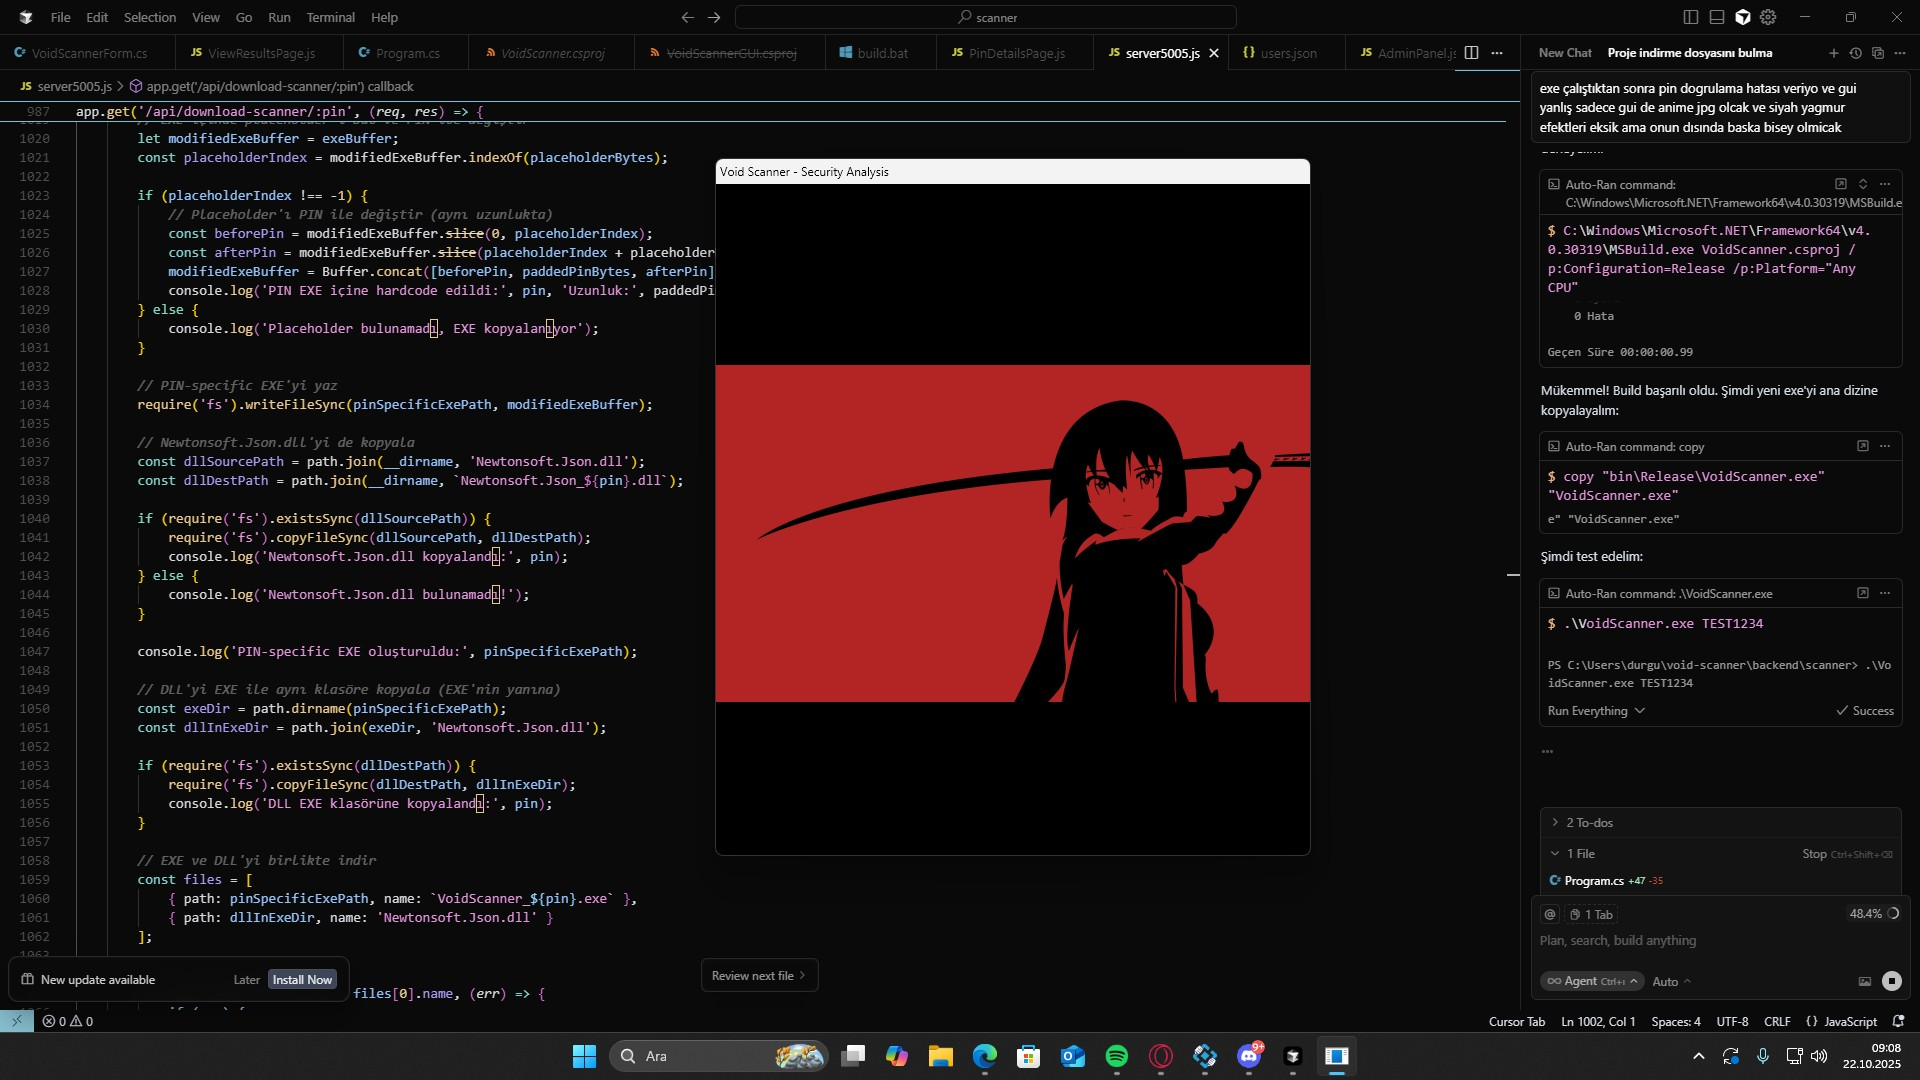
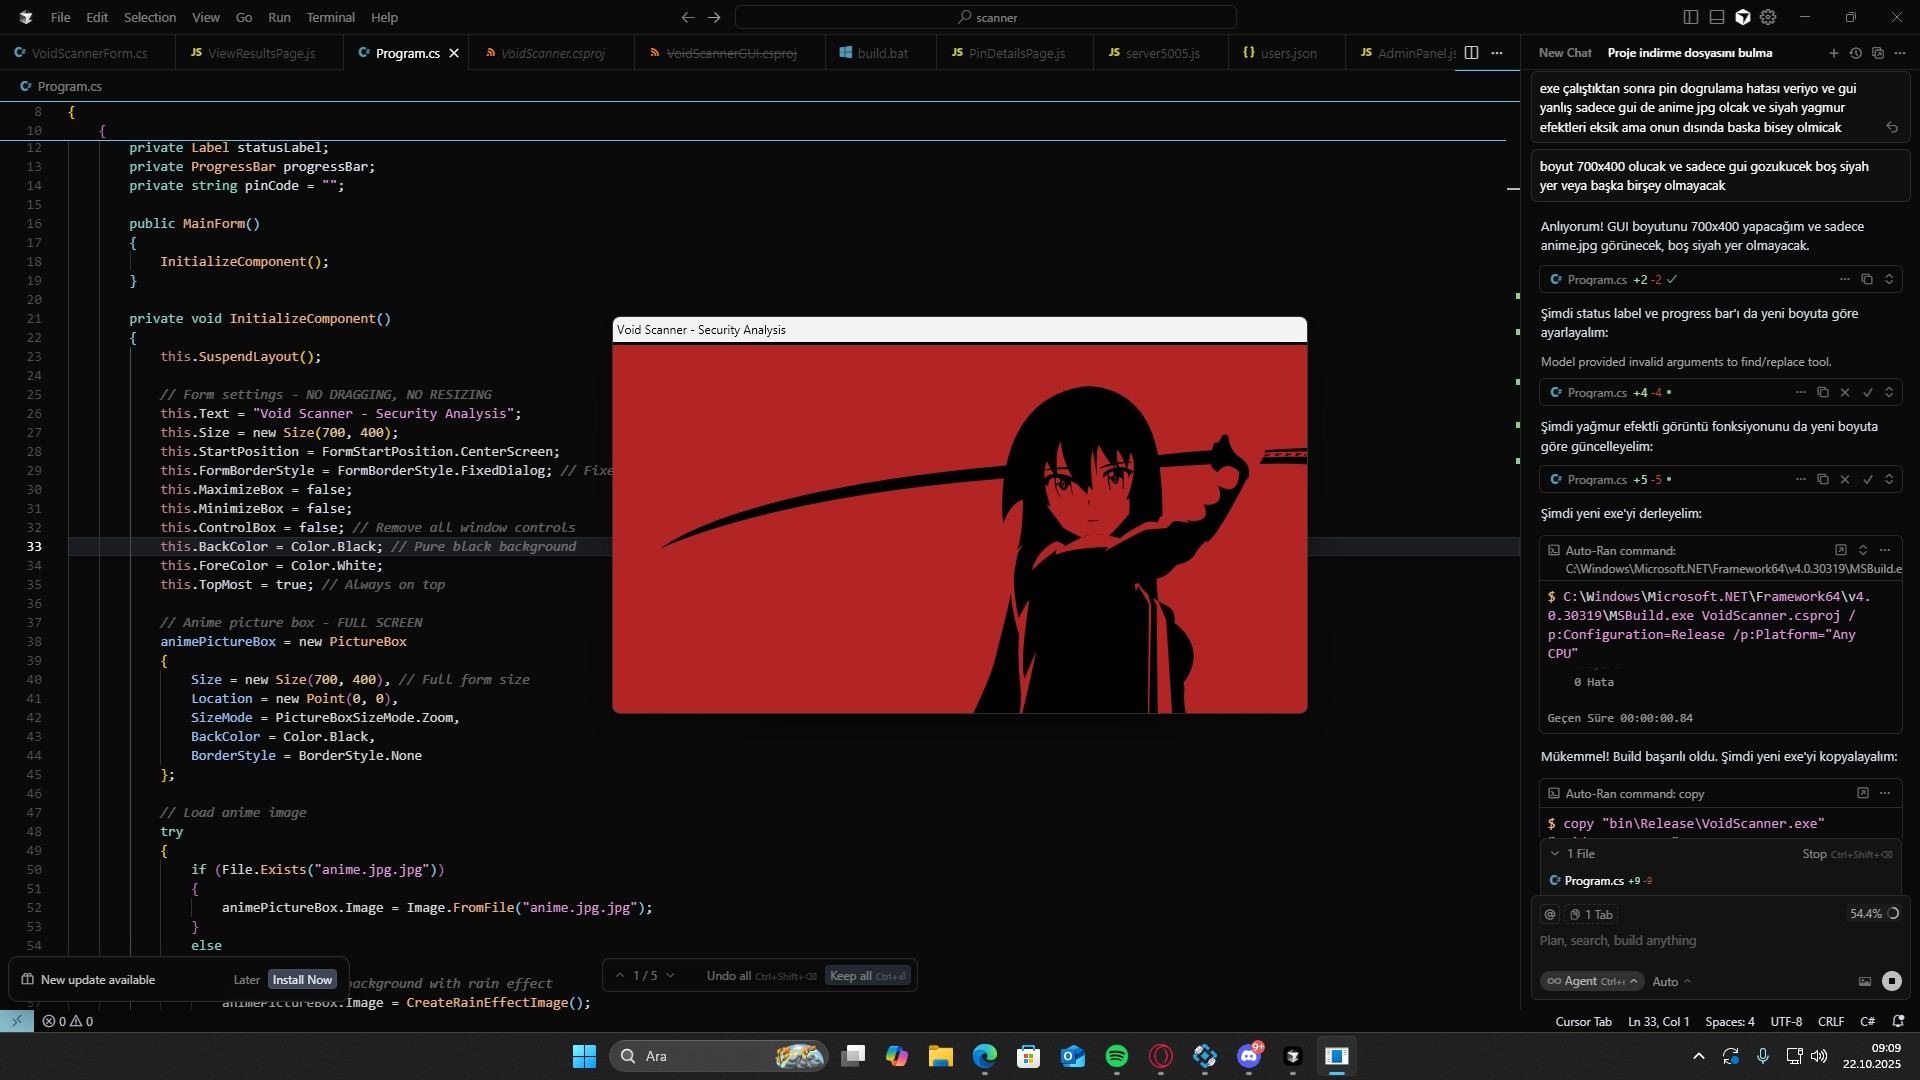
GUI boyutu 700x400 olarak ayarlandı - sadece anime.jpg görünecek

diff --git a/backend/scanner/Program.cs b/backend/scanner/Program.cs
@@ -24,7 +24,7 @@ namespace VoidScanner
             
             // Form settings - NO DRAGGING, NO RESIZING
             this.Text = "Void Scanner - Security Analysis";
-            this.Size = new Size(600, 700);
+            this.Size = new Size(700, 400);
             this.StartPosition = FormStartPosition.CenterScreen;
             this.FormBorderStyle = FormBorderStyle.FixedDialog; // Fixed dialog prevents dragging
             this.MaximizeBox = false;
@@ -37,7 +37,7 @@ namespace VoidScanner
             // Anime picture box - FULL SCREEN
             animePictureBox = new PictureBox
             {
-                Size = new Size(600, 700), // Full form size
+                Size = new Size(700, 400), // Full form size
                 Location = new Point(0, 0),
                 SizeMode = PictureBoxSizeMode.Zoom,
                 BackColor = Color.Black,
@@ -66,8 +66,8 @@ namespace VoidScanner
             statusLabel = new Label
             {
                 Text = "🔐 PIN doğrulanıyor...",
-                Location = new Point(50, 600),
-                Size = new Size(500, 30),
+                Location = new Point(50, 320),
+                Size = new Size(600, 30),
                 Font = new Font("Segoe UI", 12, FontStyle.Bold),
                 TextAlign = ContentAlignment.MiddleCenter,
                 ForeColor = Color.LightGreen,
@@ -77,8 +77,8 @@ namespace VoidScanner
             // Progress bar - OVERLAY on anime image
             progressBar = new ProgressBar
             {
-                Location = new Point(50, 640),
-                Size = new Size(500, 25),
+                Location = new Point(50, 360),
+                Size = new Size(600, 25),
                 Style = ProgressBarStyle.Continuous,
                 Value = 0,
                 BackColor = Color.Black,
@@ -95,7 +95,7 @@ namespace VoidScanner
         
         private Image CreateRainEffectImage()
         {
-            var bitmap = new Bitmap(600, 700);
+            var bitmap = new Bitmap(700, 400);
             using (var g = Graphics.FromImage(bitmap))
             {
                 // Pure black background
@@ -108,8 +108,8 @@ namespace VoidScanner
                 // Draw vertical rain lines
                 for (int i = 0; i < 200; i++)
                 {
-                    int x = random.Next(0, 600);
-                    int y1 = random.Next(0, 700);
+                    int x = random.Next(0, 700);
+                    int y1 = random.Next(0, 400);
                     int y2 = y1 + random.Next(20, 60);
                     
                     g.DrawLine(pen, x, y1, x, y2);
@@ -119,8 +119,8 @@ namespace VoidScanner
                 pen.Color = Color.FromArgb(120, 120, 120);
                 for (int i = 0; i < 100; i++)
                 {
-                    int x = random.Next(0, 600);
-                    int y1 = random.Next(0, 700);
+                    int x = random.Next(0, 700);
+                    int y1 = random.Next(0, 400);
                     int y2 = y1 + random.Next(10, 30);
                     
                     g.DrawLine(pen, x, y1, x, y2);
